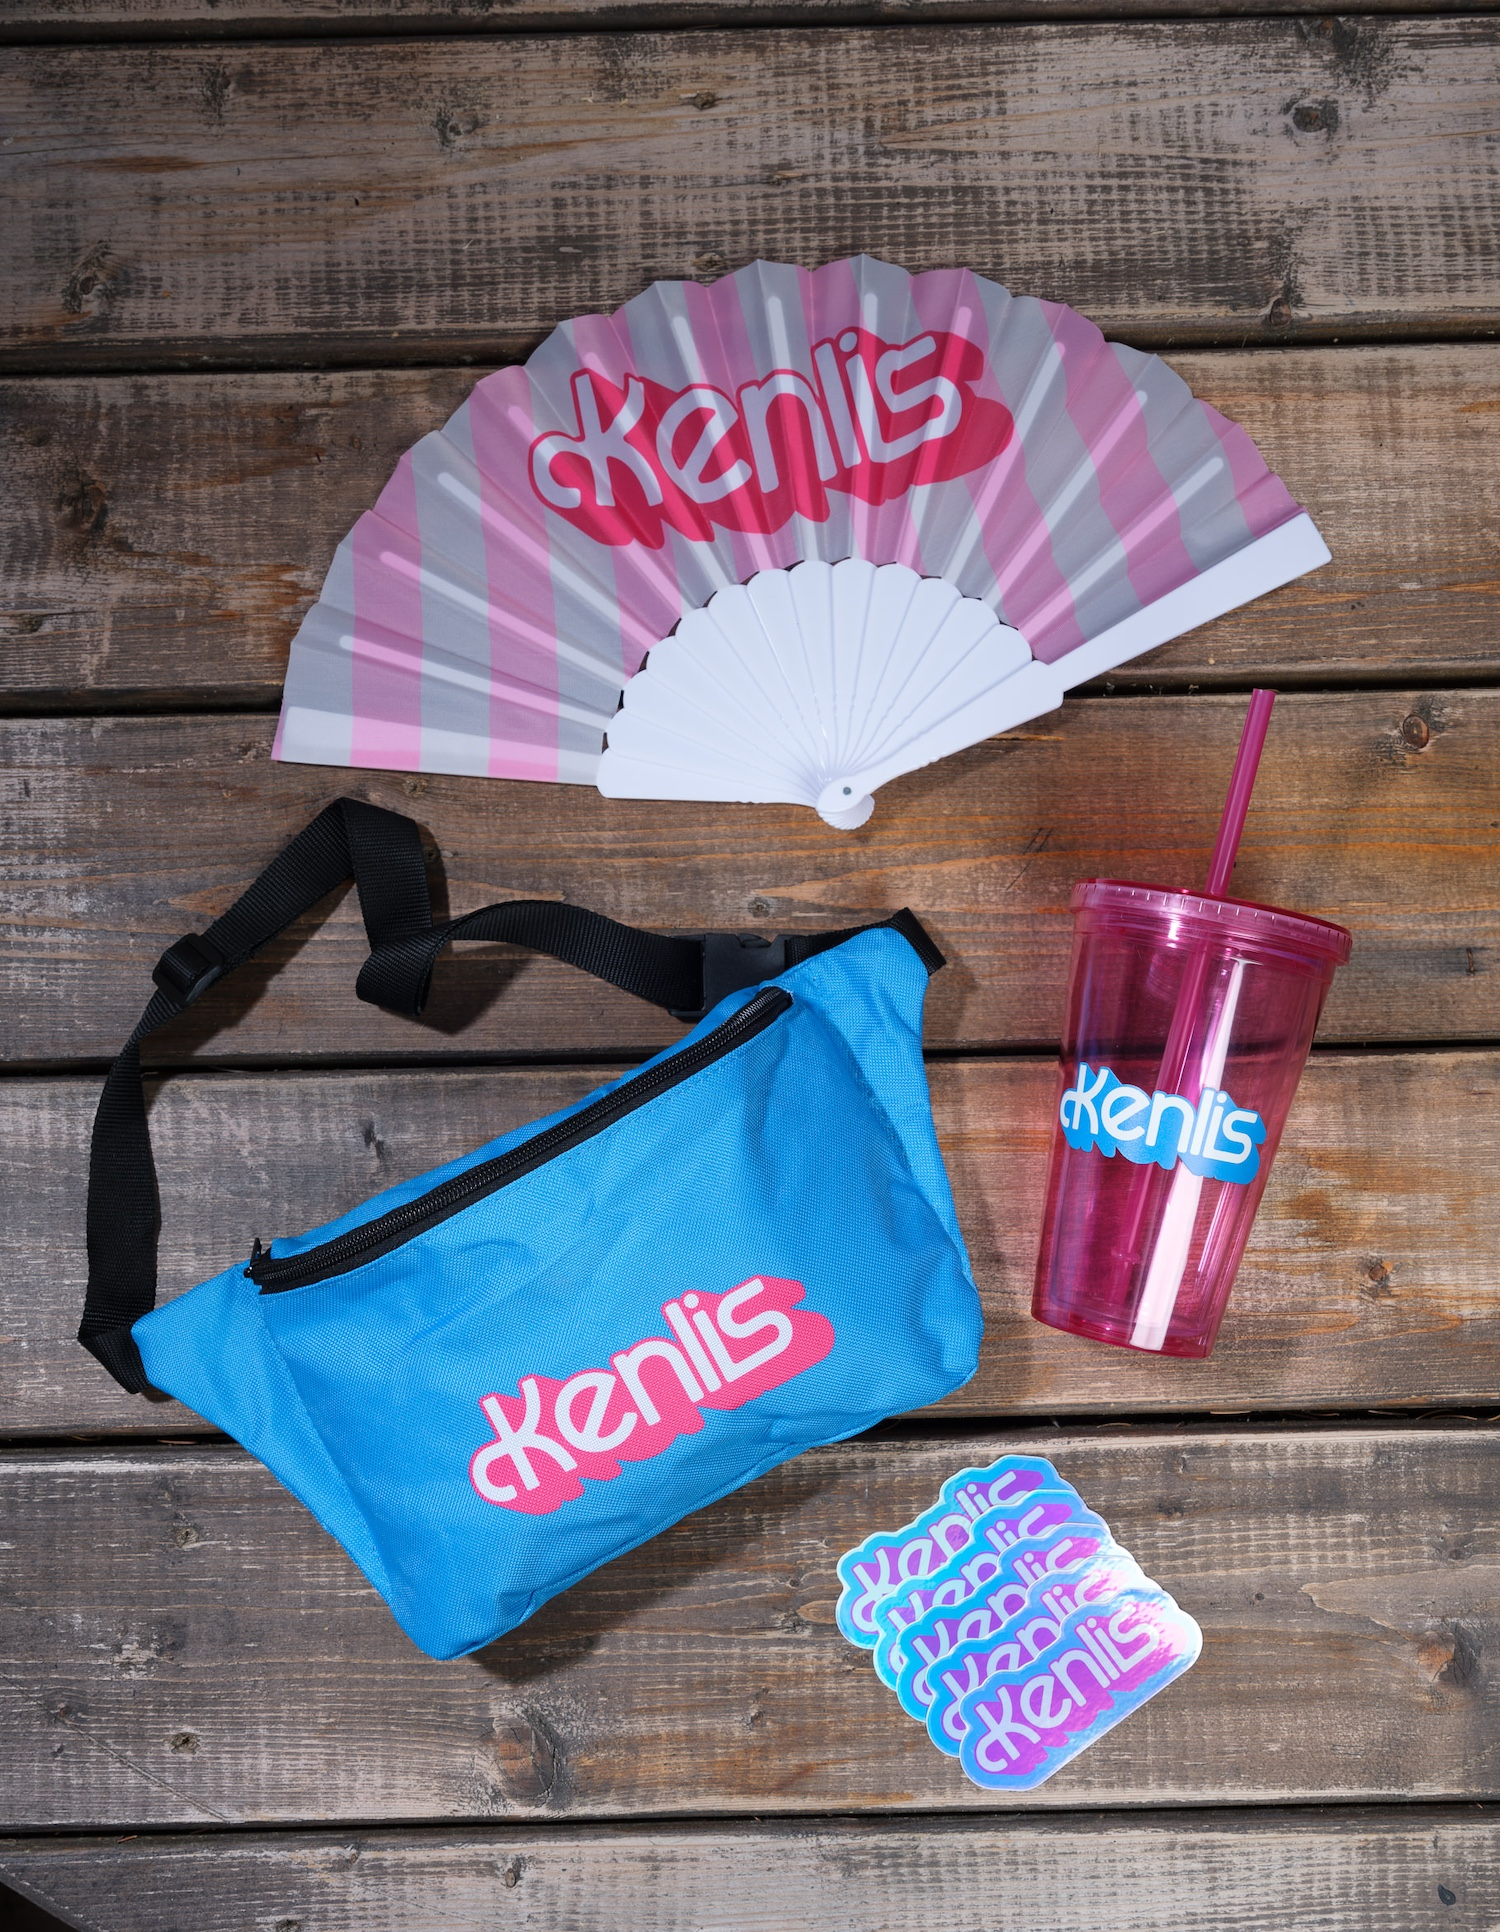
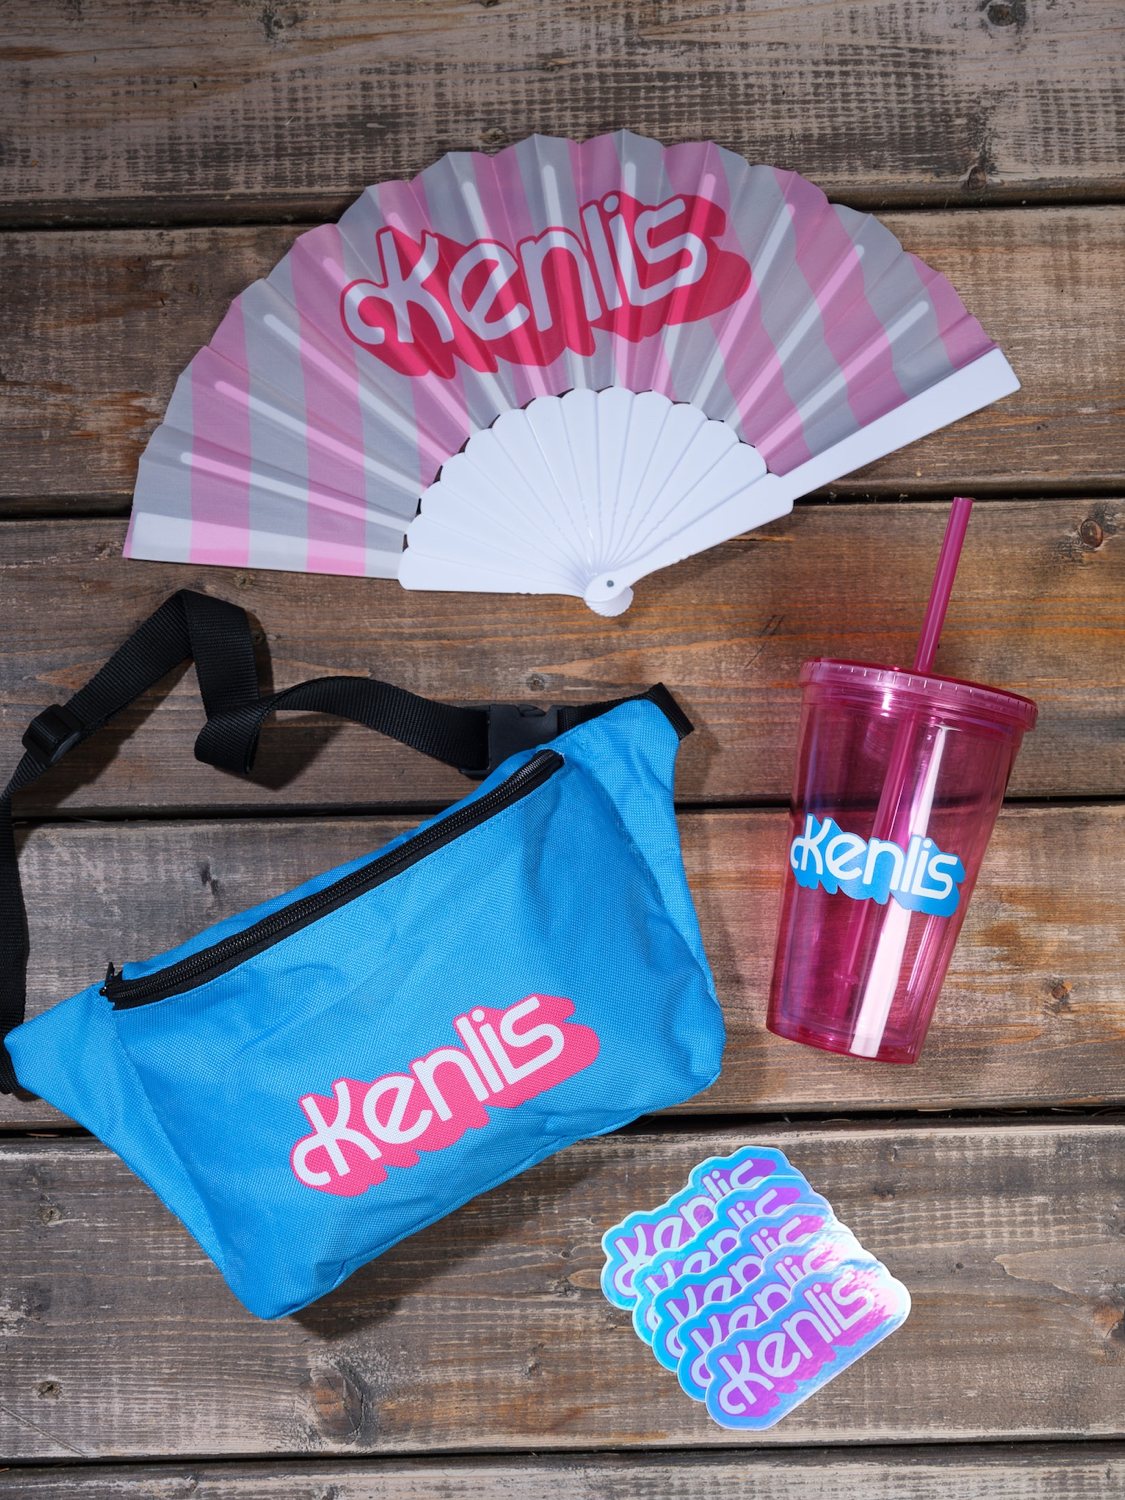
fixed layout

diff --git a/_layouts/studio3.html b/_layouts/studio3.html
@@ -1,20 +1,5 @@
 {% include head.html %}
 
-
-<!-- <ol>
-
-{% assign visible_items = page.items | where: "is_visible", true %}
-
-{% for item in visible_items %}
-  <li class="">
-    {{ item.title }}
-    {% if item.is_featured %}- 🌟
-    {% endif %}
-  </li>
-{% endfor %}
-
-</ol> -->
-
 <div class="StudioContainer">
 
   <!-- INTRO -->
@@ -40,7 +25,6 @@
           data-title="{{ item.title | escape }}"
         >
           <div class="item__content">
-
             {% if item.photos and item.photos.size > 1 %}
               <div class="splide js-item-splide" data-interval="{{ item.photo_duration | default: 4000 }}">
                 <div class="splide__track">
@@ -57,14 +41,12 @@
               {% assign first = item.photos | first %}
               <img class="item__img" src="{{ first.url }}" alt="{{ item.title | escape }}">
             {% endif %}
-
             <div class="item__overlay">
               <p class="item__desc color-white mb0 pb0">
                 {{ item.desc }} {% if item.year %}({{ item.year }}){% endif %}
               </p>
             </div>
           </div>
-
           <div class="item-label flex justify-content-space-between">
             <div class="item-label__main color-white mb0 mt0 pb0">
               {{ item.title }}<br />
@@ -72,7 +54,6 @@
                 <span class="op50">in collaboration with {{ item.partner }}</span>
               {% endif %}
             </div>
-
             {% if item.is_soldout %}
               <div>
                 <span class="Caption color-white op50">Sold Out</span>

diff --git a/_uploads/master.css b/_uploads/master.css
@@ -5335,7 +5335,7 @@ input[type=submit] {
   border-radius: 10px;
 }
 .item--large {
-  width: 39.5vw;
+  width: 41vw;
 }
 @media (max-width: 768px) {
   .item,